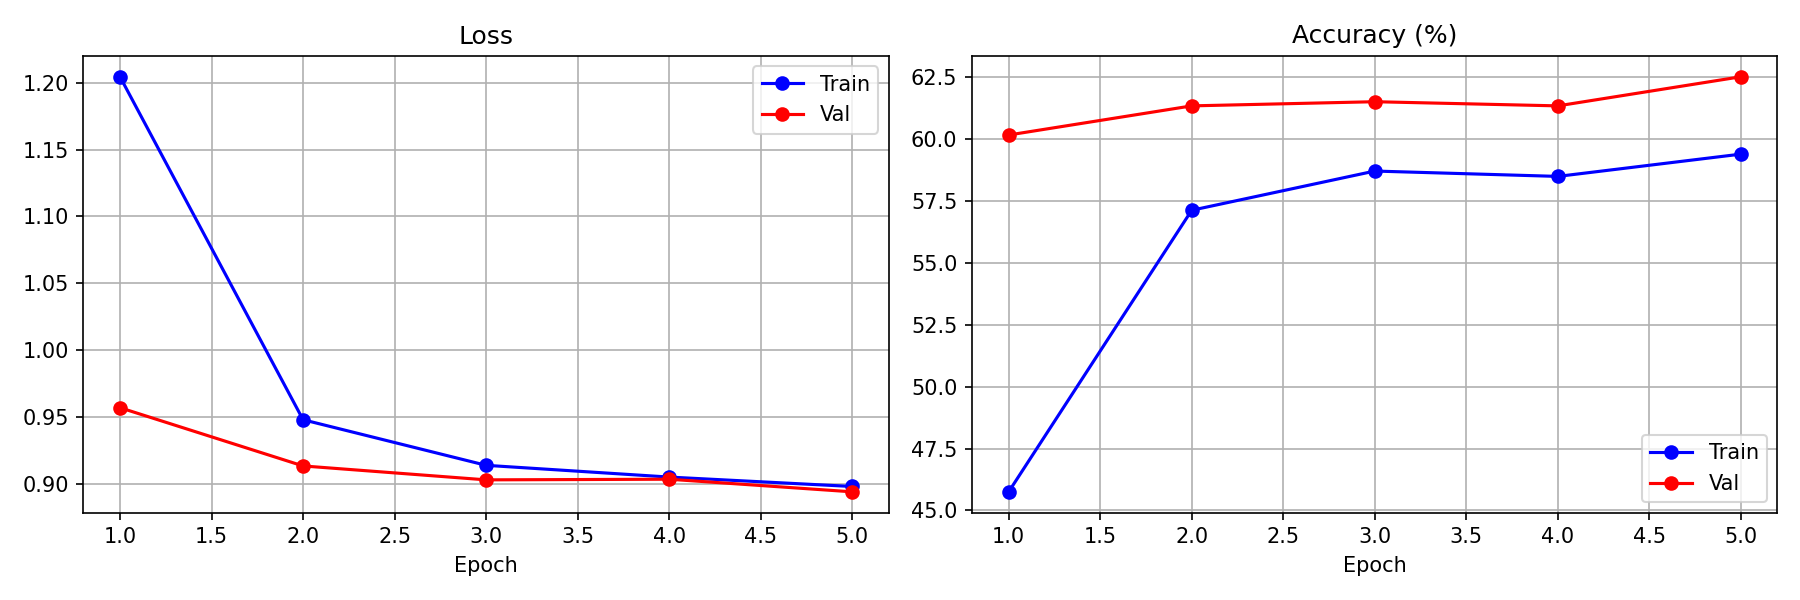
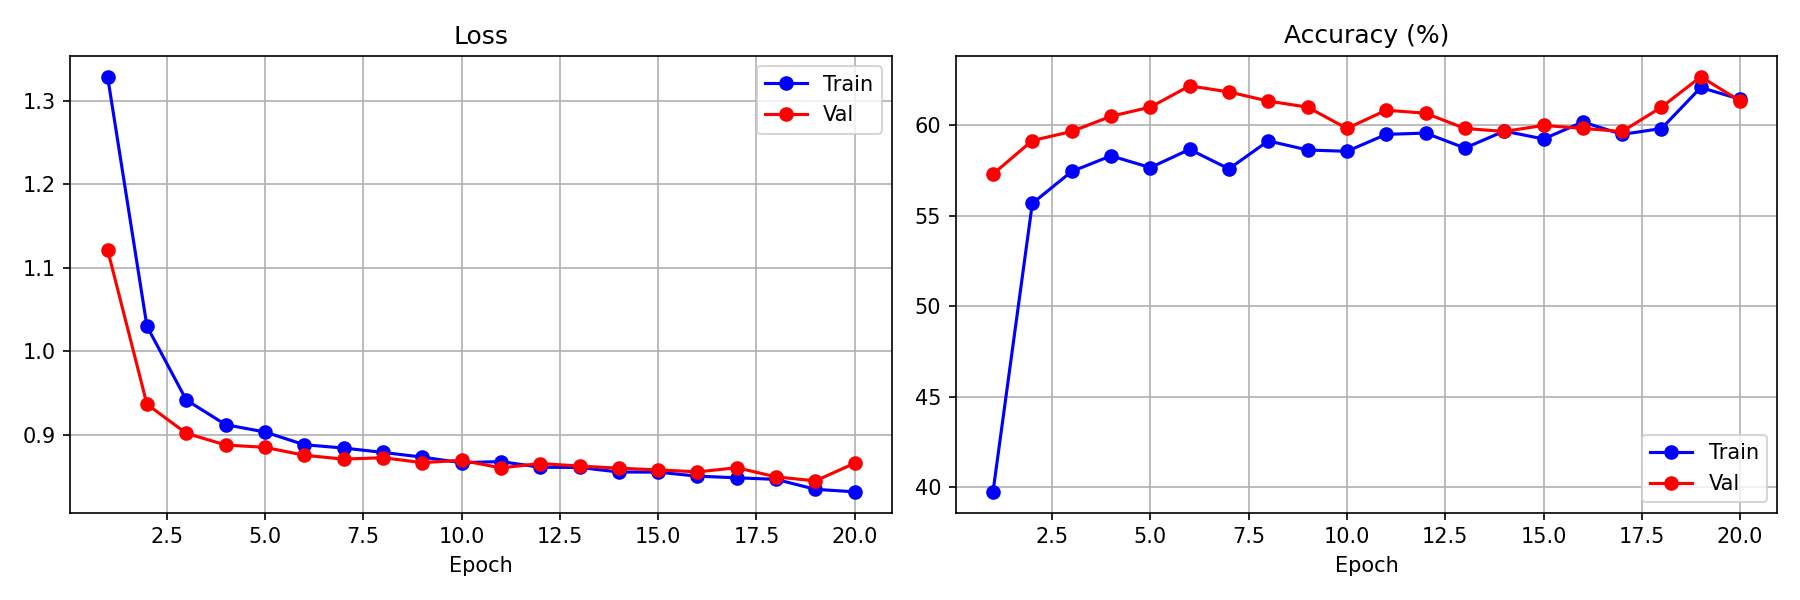
video preprocessor added

diff --git a/src/dataset.py b/src/dataset.py
@@ -1,146 +1,102 @@
+"""
+dataset.py
+Fast dataset that reads pre-extracted frames
+instead of loading videos every batch.
 
-# dataset.py
-# Loads SPORTU soccer video data for training.
+Speed improvement: 15s/batch → <1s/batch
+"""
 
 import json
 import os
-import cv2
-from httpx import options
 import torch
 import numpy as np
 from PIL import Image
 from torch.utils.data import Dataset
 import torchvision.transforms as transforms
 
-# How to preprocess each video frame
-# These values match what ResNet was trained on (ImageNet)
+# Frame preprocessing
 FRAME_TRANSFORM = transforms.Compose([
-    transforms.Resize((224, 224)),
     transforms.ToTensor(),
     transforms.Normalize(
         mean=[0.485, 0.456, 0.406],
         std =[0.229, 0.224, 0.225]
     )
+    # No resize needed — already 224x224 from preprocess.py
 ])
 
-# Convert answer letter to number
-# A=0, B=1, C=2, D=3
 ANSWER_MAP = {'A': 0, 'B': 1, 'C': 2, 'D': 3}
 
 
-def extract_frames(video_path, num_frames=8):
-    """
-    Extract 8 evenly spaced frames from a video.
-    
-    Why 8 frames?
-    Enough to understand what's happening without
-    being too slow to process.
-    """
-    cap = cv2.VideoCapture(video_path)
-    
-    if not cap.isOpened():
-        # Return blank frames if video can't open
-        blank = Image.fromarray(
-            np.zeros((224, 224, 3), dtype=np.uint8)
-        )
-        return [blank] * num_frames
-    
-    total = int(cap.get(cv2.CAP_PROP_FRAME_COUNT))
-    if total == 0:
-        cap.release()
-        blank = Image.fromarray(
-            np.zeros((224, 224, 3), dtype=np.uint8)
-        )
-        return [blank] * num_frames
-    
-    # Pick evenly spaced frame positions
-    indices = np.linspace(0, total - 1, num_frames, dtype=int)
-    
-    frames = []
-    for idx in indices:
-        cap.set(cv2.CAP_PROP_POS_FRAMES, idx) #open video
-        ret, frame = cap.read()
-        if ret:
-            # Convert BGR to RGB
-            rgb = cv2.cvtColor(frame, cv2.COLOR_BGR2RGB)
-            frames.append(Image.fromarray(rgb))
-        else:
-            blank = Image.fromarray(
-                np.zeros((224, 224, 3), dtype=np.uint8)
-            )
-            frames.append(blank)
-    
-    cap.release()
-    return frames
-
-
-def preprocess_frames(frames):
-    """
-    Apply transforms to frames and stack into one tensor.
-    Output shape: [8, 3, 224, 224]
-    """
-    tensors = [FRAME_TRANSFORM(f) for f in frames]
-    return torch.stack(tensors)
-
-
 class SPORTUDataset(Dataset):
-    """
-    PyTorch Dataset for SPORTU Soccer Video QA.
-    
-    Each example has:
-    - Video frames tensor [8, 3, 224, 224]
-    - Question + options as text
-    - Correct answer as number (0,1,2,3)
-    """
-    
-    def __init__(self, data, video_dir, processor, num_frames=8):
+
+    def __init__(self, data, frames_dir,
+                 processor, num_frames=8):
         """
         data:       list of examples from JSON
-        video_dir:  folder containing .mp4 files
+        frames_dir: folder containing pre-extracted frames
         processor:  CLIP processor for text
-        num_frames: frames to sample per video
+        num_frames: frames per video (must match preprocess.py)
         """
-        # Only keep examples that have matching video files
+        # Load frame index
+        index_path = os.path.join(
+            frames_dir, 'frame_index.json'
+        )
+        
+        if not os.path.exists(index_path):
+            raise FileNotFoundError(
+                f"Frame index not found at {index_path}\n"
+                f"Run: python src/preprocess.py first!"
+            )
+        
+        with open(index_path) as f:
+            self.frame_index = json.load(f)
+        
+        # Only keep examples with pre-extracted frames
         self.data = []
         for item in data:
-            video_path = os.path.join(
-                video_dir, f"{item['id']}.mp4"
-            )
-            if os.path.exists(video_path):
+            if item['id'] in self.frame_index:
                 self.data.append(item)
         
-        self.video_dir  = video_dir
+        self.frames_dir = frames_dir
         self.processor  = processor
         self.num_frames = num_frames
         
         print(f"Dataset ready: {len(self.data)} examples")
+        print(f"Using pre-extracted frames from: {frames_dir}")
     
     def __len__(self):
         return len(self.data)
     
+    def load_frames(self, video_id):
+        # Load pre-saved JPEG frames for a video.
+        frame_paths = self.frame_index[video_id]
+        frames = []
+        
+        for path in frame_paths:
+            try:
+                img = Image.open(path).convert('RGB')
+                frames.append(FRAME_TRANSFORM(img))
+            except Exception:
+                # Blank frame if loading fails
+                frames.append(torch.zeros(3, 224, 224))
+        
+        # Stack into tensor [num_frames, 3, 224, 224]
+        return torch.stack(frames)
+    
     def __getitem__(self, idx):
         item = self.data[idx]
         
-        #Load video
-        video_path = os.path.join(
-            self.video_dir, f"{item['id']}.mp4"
-        )
-        frames = extract_frames(video_path, self.num_frames)
-        frames = preprocess_frames(frames)
+        frames = self.load_frames(item['id'])
         # Shape: [8, 3, 224, 224]
         
-        #Process text
+        # Process text
         question = item['question']
         options  = item['options']
         
-        # Create "Question: Answer: " for each option
         available_keys = list(options.keys())
-
-        # Always ensure we have exactly 4 options
-        # If missing, duplicate the last available option
         while len(available_keys) < 4:
             available_keys.append(available_keys[-1])
-
+        
         texts = [
             f"Question: {question} Answer: {options[available_keys[i]]}"
             for i in range(4)
@@ -153,15 +109,16 @@ class SPORTUDataset(Dataset):
             truncation     = True,
             max_length     = 77
         )
-        # Shape: [4, 77]
         
-        # Get label
+        #Label
         label = ANSWER_MAP.get(item['answer'], 0)
         
         return {
             'frames'        : frames,
             'input_ids'     : encoded['input_ids'],
             'attention_mask': encoded['attention_mask'],
-            'label'         : torch.tensor(label, dtype=torch.long),
+            'label'         : torch.tensor(
+                label, dtype=torch.long
+            ),
             'video_id'      : item['id']
         }

diff --git a/src/preprocess.py b/src/preprocess.py
@@ -1,0 +1,133 @@
+"""
+preprocess.py
+Extract frames from all videos ONCE and save as images.
+Run this once before training — never again.
+
+Before: training reads video files every batch (slow)
+After:  training reads pre-saved images (fast)
+"""
+
+import os
+import cv2
+import numpy as np
+from tqdm import tqdm
+import json
+
+def extract_and_save_frames(
+    video_dir,
+    output_dir,
+    json_path,
+    num_frames=8
+):
+    """
+    For each video in the dataset:
+    1. Read the video file
+    2. Extract 8 evenly spaced frames
+    3. Save each frame as a .jpg file
+    4. Create an index file mapping video_id to frame paths
+    """
+    
+    os.makedirs(output_dir, exist_ok=True)
+    
+    # Load dataset to know which videos we need
+    with open(json_path) as f:
+        data = json.load(f)
+    
+    # Get unique video IDs that have matching files
+    video_ids = []
+    for item in data:
+        video_path = os.path.join(video_dir, f"{item['id']}.mp4")
+        if os.path.exists(video_path):
+            video_ids.append(item['id'])
+    
+    # Remove duplicates
+    video_ids = list(set(video_ids))
+    print(f"Videos to process: {len(video_ids)}")
+    
+    # Track which videos were processed successfully
+    processed = {}
+    failed    = []
+    
+    for video_id in tqdm(video_ids, desc="Extracting frames"):
+        video_path  = os.path.join(video_dir, f"{video_id}.mp4")
+        frames_dir  = os.path.join(output_dir, video_id)
+        
+        # Skip if already extracted
+        if os.path.exists(frames_dir):
+            frame_files = [
+                f for f in os.listdir(frames_dir)
+                if f.endswith('.jpg')
+            ]
+            if len(frame_files) == num_frames:
+                processed[video_id] = [
+                    os.path.join(frames_dir, f"frame_{i}.jpg")
+                    for i in range(num_frames)
+                ]
+                continue
+        
+        os.makedirs(frames_dir, exist_ok=True)
+        
+        # Open video
+        cap = cv2.VideoCapture(video_path)
+        if not cap.isOpened():
+            failed.append(video_id)
+            continue
+        
+        total = int(cap.get(cv2.CAP_PROP_FRAME_COUNT))
+        if total == 0:
+            cap.release()
+            failed.append(video_id)
+            continue
+        
+        # Sample evenly spaced frames
+        indices = np.linspace(
+            0, total - 1, num_frames, dtype=int
+        )
+        
+        frame_paths = []
+        success = True
+        
+        for i, idx in enumerate(indices):
+            cap.set(cv2.CAP_PROP_POS_FRAMES, idx)
+            ret, frame = cap.read()
+            
+            if not ret:
+                # Use blank frame if read fails
+                frame = np.zeros((224, 224, 3), dtype=np.uint8)
+            
+            # Resize to 224x224 — save storage and loading time
+            frame = cv2.resize(frame, (224, 224))
+            
+            # Save as JPEG (fast to read, reasonable quality)
+            frame_path = os.path.join(
+                frames_dir, f"frame_{i}.jpg"
+            )
+            cv2.imwrite(frame_path, frame, 
+                       [cv2.IMWRITE_JPEG_QUALITY, 95])
+            frame_paths.append(frame_path)
+        
+        cap.release()
+        
+        if success:
+            processed[video_id] = frame_paths
+    
+    # Save index file
+    index_path = os.path.join(output_dir, 'frame_index.json')
+    with open(index_path, 'w') as f:
+        json.dump(processed, f)
+    
+    print(f"\n✅ Done!")
+    print(f"  Processed: {len(processed)} videos")
+    print(f"  Failed:    {len(failed)} videos")
+    print(f"  Index saved to: {index_path}")
+    
+    return processed
+
+
+if __name__ == "__main__":
+    extract_and_save_frames(
+        video_dir  = 'videos/Soccer',
+        output_dir = 'data/frames',
+        json_path  = 'data/SportU_Video_mc.json',
+        num_frames = 8
+    )

diff --git a/main.py b/main.py
@@ -1,7 +1,9 @@
 import os
 import json
+from platform import processor
 import torch
 import torch.nn as nn
+import torch_directml
 import torch.optim as optim
 import matplotlib.pyplot as plt
 from torch.utils.data import DataLoader, random_split
@@ -15,8 +17,8 @@ from src.train   import train_one_epoch, evaluate
 DATA_PATH   = 'data/SportU_Video_mc.json'
 VIDEO_DIR   = 'videos/Soccer'
 OUTPUT_DIR  = 'outputs'
-BATCH_SIZE  = 4
-NUM_EPOCHS  = 5
+BATCH_SIZE  = 16
+NUM_EPOCHS  = 20
 LR          = 1e-4
 FEATURE_DIM = 256
 NUM_FRAMES  = 8
@@ -26,8 +28,8 @@ def main():
     os.makedirs(OUTPUT_DIR, exist_ok=True)
     
     # Device
-    device = torch.device('cpu')
-    print(f"Using device: {device}")
+    device = torch_directml.device()
+    print(f"✅ Using Arc B580 GPU via DirectML!")
     
     # Load data
     with open(DATA_PATH) as f:
@@ -41,7 +43,7 @@ def main():
     # Dataset
     full_dataset = SPORTUDataset(
         data       = data,
-        video_dir  = VIDEO_DIR,
+        frames_dir = 'data/frames',   # pre-extracted frames
         processor  = processor,
         num_frames = NUM_FRAMES
     )